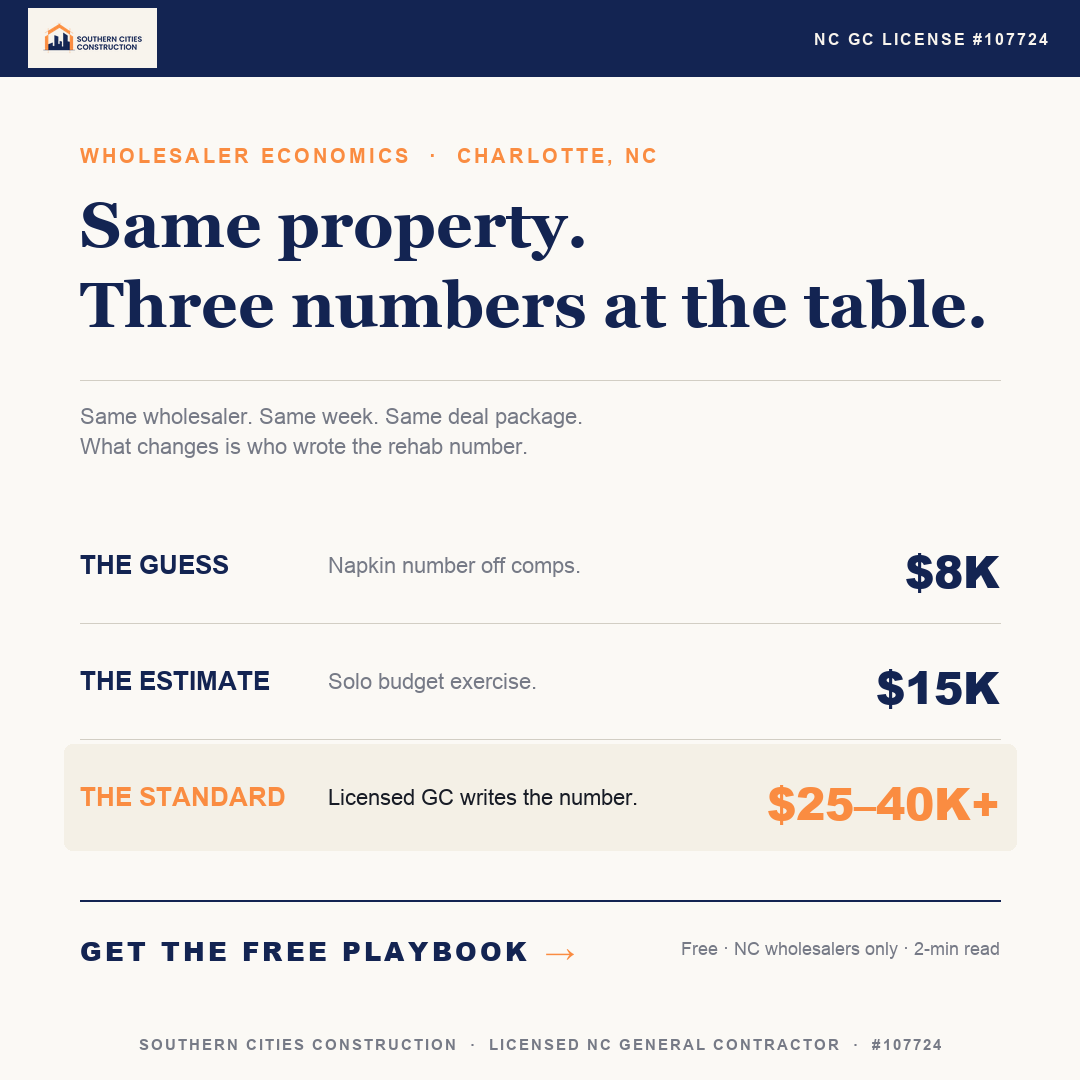
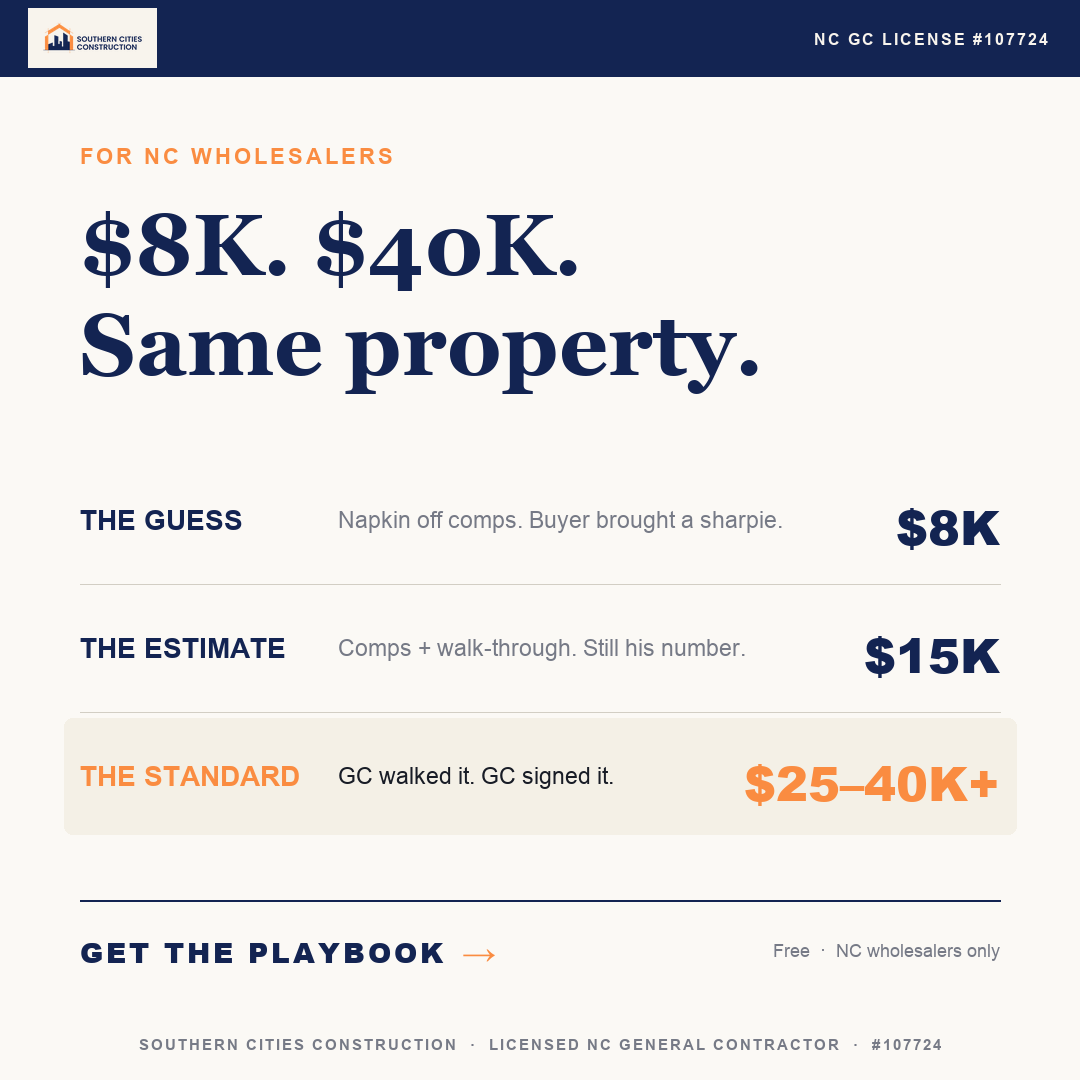
Wholesaler-tiers v5: tight hook/body/CTA per 2-second rule
Removed pre-amble that competed with the hook for attention:
- Dropped 'WHOLESALER ECONOMICS · NC ASSIGNMENT DATA' eyebrow
- Dropped kicker paragraph
- Dropped hairline between headline and body

Strengthened the 3-layer direct-response structure:
- HOOK: 'FOR NC WHOLESALERS' + '$8K. $40K. Same property.'
       The dollar gap IS the hook. 6-word scroll-stopper.
- BODY: 3-tier comparison with buyer-perspective descriptions
       'Napkin off comps. Buyer brought a sharpie.' etc
- CTA: 'GET THE PLAYBOOK →' with 'Free · NC wholesalers only'

diff --git a/scripts/build-wholesaler-tiers.py b/scripts/build-wholesaler-tiers.py
@@ -60,11 +60,11 @@ def tracked_width(d, text, f, spacing=2):
     return w
 
 
-# Three tiers — same content, different visual treatment per render
+# Three tiers — sharper descriptions, buyer-perspective
 TIERS = [
-    {"slot": "THE GUESS",     "desc": "Napkin number off comps.",        "amt": "$8K",       "win": False},
-    {"slot": "THE ESTIMATE",  "desc": "Solo budget exercise.",           "amt": "$15K",      "win": False},
-    {"slot": "THE STANDARD",  "desc": "Licensed GC writes the number.",  "amt": "$25–40K+", "win": True},
+    {"slot": "THE GUESS",     "desc": "Napkin off comps. Buyer brought a sharpie.",   "amt": "$8K",       "win": False},
+    {"slot": "THE ESTIMATE",  "desc": "Comps + walk-through. Still his number.",      "amt": "$15K",      "win": False},
+    {"slot": "THE STANDARD",  "desc": "GC walked it. GC signed it.", "amt": "$25–40K+", "win": True},
 ]
 
 
@@ -135,63 +135,48 @@ def build_square():
     # left/right gutter
     GUT = 80
 
-    # eyebrow
-    eb = font(BOLD, 20)
-    eb_text = "WHOLESALER ECONOMICS  ·  CHARLOTTE, NC"
+    # ---- HOOK: targeting tag + giant dollar gap ----
+    eb = font(BOLD, 22)
+    eb_text = "FOR NC WHOLESALERS"
     tracked(d, GUT, 144, eb_text, eb, ORANGE, spacing=3)
 
-    # headline (Georgia serif — editorial)
-    fh = font(GEORGIA_BOLD, 64)
-    d.text((GUT, 188), "Same property.", font=fh, fill=NAVY)
-    d.text((GUT, 268), "Three numbers at the table.", font=fh, fill=NAVY)
+    # The hook — biggest type on the canvas, the scroll-stopper
+    fh = font(GEORGIA_BOLD, 86)
+    d.text((GUT, 196), "$8K. $40K.", font=fh, fill=NAVY)
+    d.text((GUT, 296), "Same property.", font=fh, fill=NAVY)
 
-    # hairline divider under headline
-    d.line([GUT, 380, W - GUT, 380], fill=HAIRLINE, width=1)
-
-    # subhead / kicker (one editorial line)
-    fk = font(REG, 22)
-    d.text((GUT, 404), "Same wholesaler. Same week. Same deal package.",
-           font=fk, fill=MUTED)
-    d.text((GUT, 434), "What changes is who wrote the rehab number.",
-           font=fk, fill=MUTED)
-
-    # tier rows
+    # ---- BODY: the 3-tier comparison ----
     row_x0 = GUT
     row_x1 = W - GUT
-    rows_top = 520
-    row_h = 90
-    row_gap = 26
-    slot_w = 220
+    rows_top = 470
+    row_h = 100
+    row_gap = 28
+    slot_w = 230
 
     for i, t in enumerate(TIERS):
         y = rows_top + i * (row_h + row_gap)
-        # hairline divider above each row except first
         if i > 0:
             d.line([row_x0, y - row_gap // 2, row_x1, y - row_gap // 2], fill=HAIRLINE, width=1)
         render_tier_row(
             d, t, row_x0, row_x1, y, row_h,
             slot_w=slot_w, amt_w=200,
-            slot_size=26, desc_size=22, amt_size=44,
+            slot_size=28, desc_size=23, amt_size=48,
             is_highlighted=t["win"],
         )
 
-    # thicker rule before CTA
+    # ---- CTA: clear single action ----
     d.line([GUT, 900, W - GUT, 900], fill=NAVY, width=2)
-
-    # editorial CTA — text-only, no button
-    fc = font(BLACK, 26)
-    cta = "GET THE FREE PLAYBOOK"
+    fc = font(BLACK, 28)
+    cta = "GET THE PLAYBOOK"
     cta_w = tracked_width(d, cta, fc, spacing=3)
     cta_x = GUT
     tracked(d, cta_x, 932, cta, fc, NAVY, spacing=3)
-    # arrow rendered separately
     arrow_x = cta_x + cta_w + 18
-    d.text((arrow_x, 928), "→", font=font(BLACK, 30), fill=ORANGE)
-
-    # right-aligned helper line
+    d.text((arrow_x, 926), "→", font=font(BLACK, 34), fill=ORANGE)
+    # right-aligned helper
     fh2 = font(REG, 18)
-    helper = "Free · NC wholesalers only · 2-min read"
-    d.text((W - GUT - tw(d, helper, fh2), 938), helper, font=fh2, fill=MUTED)
+    helper = "Free  ·  NC wholesalers only"
+    d.text((W - GUT - tw(d, helper, fh2), 940), helper, font=fh2, fill=MUTED)
 
     # bottom credit line
     draw_bottom_credit(d, W, H)
@@ -212,31 +197,21 @@ def build_vertical():
 
     GUT = 80
 
-    # eyebrow
-    eb = font(BOLD, 22)
-    eb_text = "WHOLESALER ECONOMICS  ·  CHARLOTTE, NC"
-    tracked(d, GUT, 230, eb_text, eb, ORANGE, spacing=3)
+    # ---- HOOK: targeting tag + massive dollar gap ----
+    eb = font(BOLD, 24)
+    eb_text = "FOR NC WHOLESALERS"
+    tracked(d, GUT, 220, eb_text, eb, ORANGE, spacing=3)
 
-    # headline (Georgia serif)
-    fh = font(GEORGIA_BOLD, 84)
-    d.text((GUT, 286), "Same property.", font=fh, fill=NAVY)
-    d.text((GUT, 388), "Three numbers", font=fh, fill=NAVY)
-    d.text((GUT, 490), "at the table.", font=fh, fill=NAVY)
+    # The hook — biggest type on the canvas
+    fh = font(GEORGIA_BOLD, 108)
+    d.text((GUT, 280), "$8K. $40K.", font=fh, fill=NAVY)
+    fh2 = font(GEORGIA_BOLD, 96)
+    d.text((GUT, 420), "Same property.", font=fh2, fill=NAVY)
 
-    # hairline divider
-    d.line([GUT, 630, W - GUT, 630], fill=HAIRLINE, width=1)
-
-    # kicker
-    fk = font(REG, 28)
-    d.text((GUT, 666), "Same wholesaler. Same week. Same deal package.",
-           font=fk, fill=MUTED)
-    d.text((GUT, 706), "What changes is who wrote the rehab number.",
-           font=fk, fill=MUTED)
-
-    # tier rows — stack: slot name on top row, description as smaller subline
+    # ---- BODY: 3-tier comparison (stacked layout for vertical width) ----
     row_x0 = GUT
     row_x1 = W - GUT
-    rows_top = 880
+    rows_top = 730
     row_h = 150
     row_gap = 60
 
@@ -244,19 +219,15 @@ def build_vertical():
         y = rows_top + i * (row_h + row_gap)
         if i > 0:
             d.line([row_x0, y - row_gap // 2, row_x1, y - row_gap // 2], fill=HAIRLINE, width=1)
-        # highlight bg for winner
         if t["win"]:
             d.rounded_rectangle([row_x0 - 16, y - 14, row_x1 + 16, y + row_h + 14],
                                 radius=10, fill=HIGHLIGHT_BG)
-        # slot name (top of row, large)
         fs = font(BOLD, 34)
         slot_color = ORANGE if t["win"] else NAVY
         d.text((row_x0, y + 6), t["slot"], font=fs, fill=slot_color)
-        # description (under slot name, smaller, muted)
         fd = font(REG, 28)
         desc_color = INK if t["win"] else MUTED
         d.text((row_x0, y + 56), t["desc"], font=fd, fill=desc_color)
-        # amount (right-aligned, vertically centered)
         fa = font(BLACK, 64)
         amt_w = tw(d, t["amt"], fa)
         amt_color = ORANGE if t["win"] else NAVY
@@ -265,19 +236,18 @@ def build_vertical():
     # thicker rule before CTA
     d.line([GUT, 1680, W - GUT, 1680], fill=NAVY, width=2)
 
-    # editorial CTA
-    fc = font(BLACK, 32)
-    cta = "GET THE FREE PLAYBOOK"
+    # ---- CTA: single clear action ----
+    fc = font(BLACK, 34)
+    cta = "GET THE PLAYBOOK"
     cta_w = tracked_width(d, cta, fc, spacing=3)
     cta_x = GUT
     tracked(d, cta_x, 1720, cta, fc, NAVY, spacing=3)
     arrow_x = cta_x + cta_w + 22
-    d.text((arrow_x, 1715), "→", font=font(BLACK, 38), fill=ORANGE)
-
-    # helper sub-line under CTA
+    d.text((arrow_x, 1714), "→", font=font(BLACK, 42), fill=ORANGE)
+    # helper sub-line
     fh2 = font(REG, 22)
-    helper = "Free · NC wholesalers only · 2-min read"
-    d.text((GUT, 1780), helper, font=fh2, fill=MUTED)
+    helper = "Free  ·  NC wholesalers only"
+    d.text((GUT, 1782), helper, font=fh2, fill=MUTED)
 
     # bottom credit line
     draw_bottom_credit(d, W, H)
